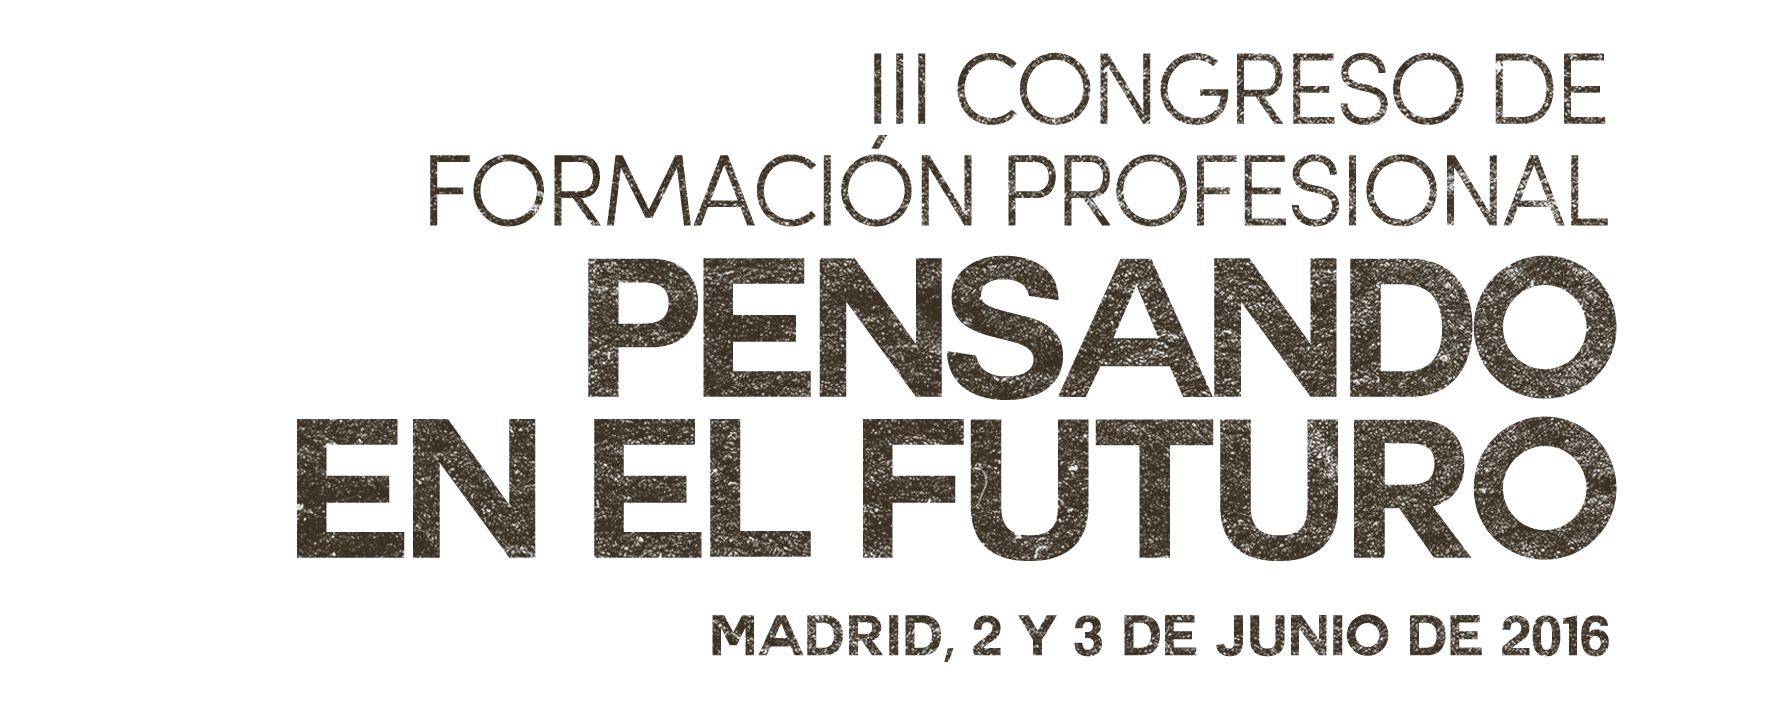
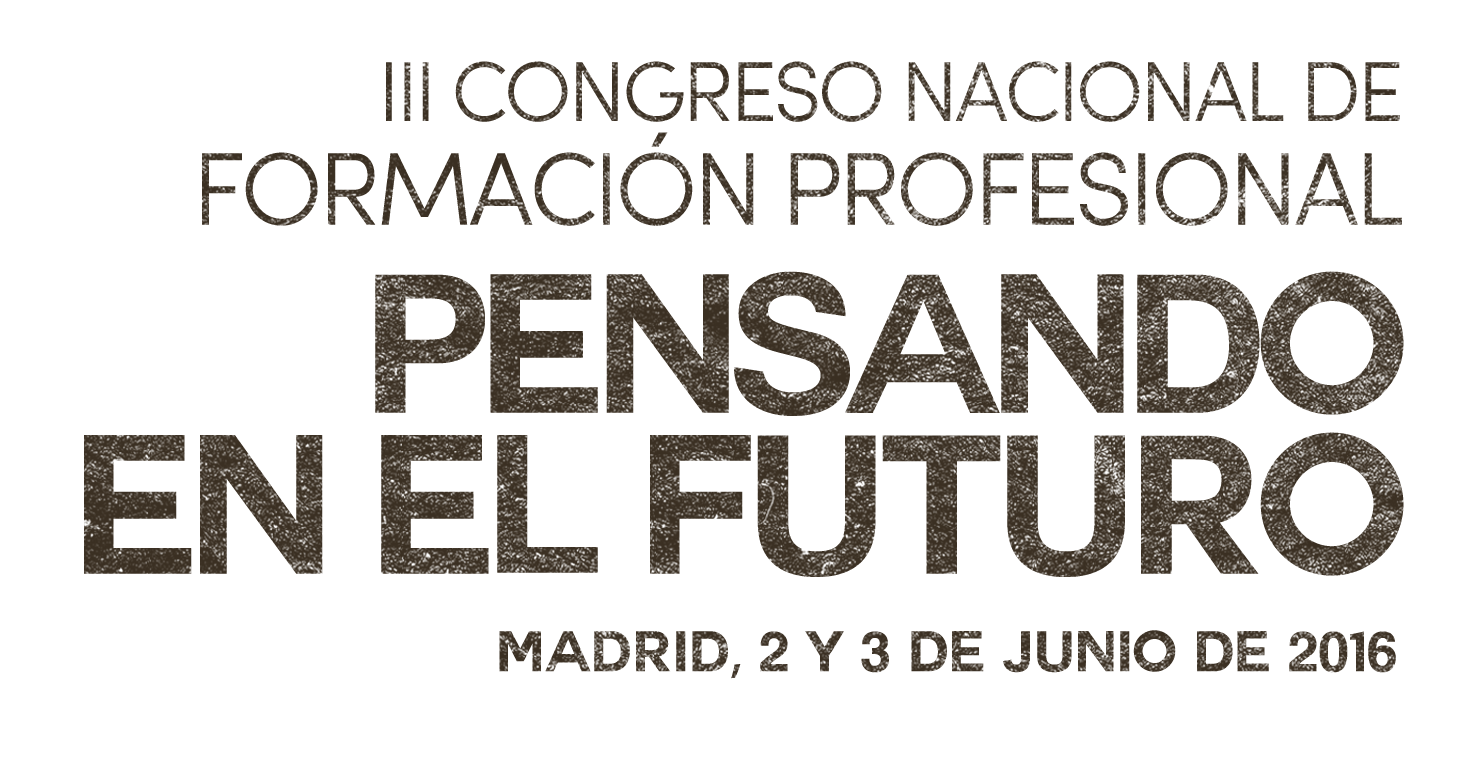
Poner lo de "Nacional" cambio de nombre de ponencia Bajarel texto inicial porque lo tapa el menu

Changed region(s): [[0.0311, 0.0615, 0.9635, 0.7989], [0.3108, 0.8296, 0.9635, 0.9218]]

diff --git a/index.html b/index.html
@@ -8,7 +8,7 @@
         <meta name="author" content="fpempresa">
         <link rel="icon" type="image/png" href="img/favicon.png">
 
-        <title>III Congreso de Formación Profesional</title>       
+        <title>III Congreso Nacional de Formación Profesional</title>       
 
         <link href="./lib/bootstrap/css/bootstrap.css"                 rel="stylesheet" type="text/css" />
         <link href="./lib/fontawesome/css/font-awesome.css"            rel="stylesheet" type="text/css" />
@@ -95,6 +95,14 @@
                                 <i class="fa fa-exclamation-circle"></i>&nbsp;&nbsp;&nbsp;Ya disponible las <a  href ng-click="animateScroll.toElement('agenda')" >slides</a> y las <a href="./presentaciones/propuestas_para_un_impulso_de_la_formacion_profesional.pdf" target="_blank" >propuestas del congreso</a>
                             </div> 
 -->
+                        </div>
+                    </div>
+                    <div class="row">
+                        <div class="col-xs-12 col-sm-12 col-md-12" >   
+                            <br>
+                            <br>
+                            <br>
+                            <br>
                         </div>
                     </div>
                     <div class="row">
@@ -370,7 +378,7 @@
                         <tr>
                             <td>13:30&nbsp;h.</td>
                             <td>
-                                <strong>Oportunidades para los Centros de FP en la Formación para el Empleo</strong><br>
+                                <strong>Nuevos escenarios para la Formación Profesional en el Empleo</strong><br>
                                 <div style="text-align: left">
                                     D. Alfonso Luengo Álvarez-Santullano – Director Gerente de la Fundación Estatal para la Formación en el Empleo<br>
                                 </div>
